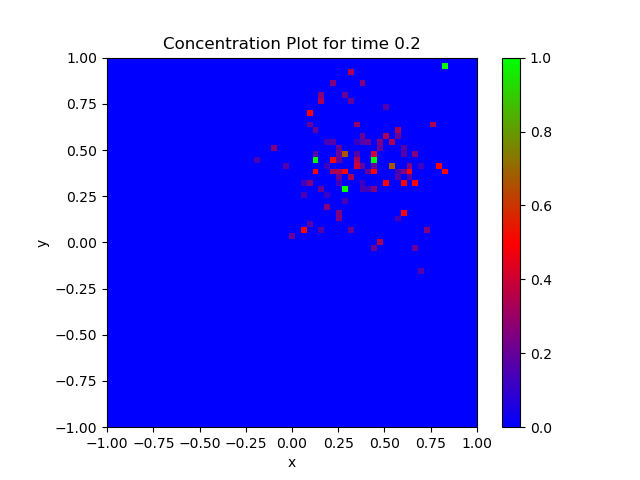
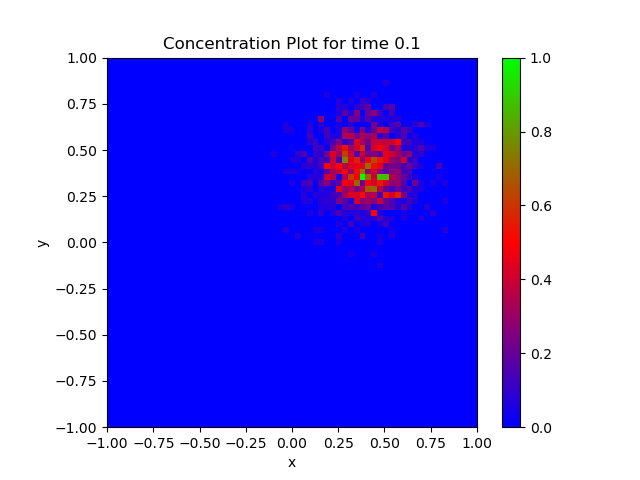
Add Task E

diff --git a/task_b.py b/task_b.py
@@ -129,7 +129,7 @@ class TaskB(InitialState,SimulationMath,Concentration):
 
         return rmse_average_list
 
-    def plot_rmse_analysis(self,axes,xlim,title,xlabel,ylabel,observed_data,fitted_data,
+    def plot_rmse_analysis(self,axes,xlim,title,xlabel,ylabel,observed_data,fitted_data,label,
                             ylim=None,diff_nparticles=False,diff_timestep=False):
 
         axes.set_xscale('log')
@@ -137,11 +137,14 @@ class TaskB(InitialState,SimulationMath,Concentration):
         axes.set_xlabel(xlabel)
         axes.set_ylabel(ylabel)
         axes.set_title(title)
-        axes.scatter(*zip(*observed_data))
-        axes.plot(*zip(*fitted_data), color='red',linestyle='dashed')
+        observed_data_plot = axes.scatter(*zip(*observed_data))
+        fitted_data_plot, = axes.plot(*zip(*fitted_data), color='red',linestyle='dashed')
+        fitted_data_plot.set_label(label)
+        axes.legend()
 
         if diff_nparticles:
             axes.set_yscale('log')
+            axes.legend
         if diff_timestep:
             axes.set_ylim(ylim)
 
@@ -221,21 +224,13 @@ class TaskB(InitialState,SimulationMath,Concentration):
 
             title = 'RMSE against Number of particles for h={num}'.format(num=self.h)
 
-            rmse_nparticles_analysis = self.rmse_analysis(rmse_num_particles,diff_particles=True)
+            coefficient, rmse_nparticles_analysis = self.rmse_analysis(rmse_num_particles,diff_particles=True)
 
-            self.plot_rmse_analysis(axes=rmse_axes[0],xlim=[self.lower_Np - 100,self.higher_Np + 100], xlabel='Number of particles', ylabel='RMSE',title=title,
+            fitted_eqn_particles = '{a}*Np^({b})'.format(a=round(coefficient[0],3), b=round(-coefficient[1],3))
+
+            self.plot_rmse_analysis(axes=rmse_axes[0],xlim=[self.lower_Np - 100,self.higher_Np + 100], xlabel='Number of particles', ylabel='RMSE',title=title,label=fitted_eqn_particles,
                                     observed_data=rmse_num_particles, fitted_data=rmse_nparticles_analysis, diff_nparticles=True)
 
-            # rmse_axes[0].set_xscale('log')
-            # rmse_axes[0].set_yscale('log')
-            # rmse_axes[0].set_xlim([self.lower_Np - 100, self.higher_Np + 100])
-            # # rmse_axes[0].set_ylim([0.01, 0.1])
-            # rmse_axes[0].set_xlabel('Number of particles')
-            # rmse_axes[1].set_ylabel('RMSE')
-            # title = 'RMSE against Number of particles for h={num}'.format(num=self.h)
-            # rmse_axes[0].set_title('RMSE vs n_particles')
-            # rmse_axes[0].scatter(*zip(*rmse_num_particles))
-            # rmse_axes[0].plot(*zip(*rmse_nparticles_analysis), color='red', linestyle='dashed')
             
             for time_step in self.time_step_list:
 
@@ -257,16 +252,12 @@ class TaskB(InitialState,SimulationMath,Concentration):
 
             title = 'RMSE against Time Step for N particles ={num}'.format(num=self.Np)
 
-            rmse_time_step_analysis = self.rmse_analysis(rmse_time_step,diff_time_step=True)
+            coefficient, rmse_time_step_analysis = self.rmse_analysis(rmse_time_step,diff_time_step=True)
 
-            self.plot_rmse_analysis(axes=rmse_axes[1],xlim=[1e-4,1],ylim=[2e-3, 0.5],title=title,xlabel='Time Step (s)',ylabel='RMSE',
+            fitted_time_equation = '{a} * ln(h) + {b}'.format(a=round(coefficient[0],3), b=round(coefficient[1],3))
+
+            self.plot_rmse_analysis(axes=rmse_axes[1],xlim=[1e-4,1],ylim=[2e-3, 0.5],title=title,xlabel='Time Step (s)',ylabel='RMSE',label=fitted_time_equation,
                                     observed_data=rmse_time_step, fitted_data=rmse_time_step_analysis, diff_timestep=True)
-            # rmse_axes[1].set_xscale('log')
-            # rmse_axes[1].set_xlim([1e-4, 1])
-            # rmse_axes[1].set_ylim([2e-3, 0.5])
-            # rmse_axes[1].set_title('RMSE vs time_step')
-            # rmse_axes[1].scatter(*zip(*rmse_time_step))
-            # rmse_axes[1].plot(*zip(*test), color='red', linestyle='dashed')
 
             plt.show()
 
@@ -286,4 +277,4 @@ class TaskB(InitialState,SimulationMath,Concentration):
             popt, pcov = curve_fit(lambda fx,a,b: a * np.log(fx) + b,  x,  y)
             power_y = popt[0] * np.log(x) + popt[1]
 
-        return list(zip(x,power_y))
+        return popt, list(zip(x,power_y))

diff --git a/task_e.py b/task_e.py
@@ -6,10 +6,87 @@ import time
 from scipy.spatial import cKDTree
 from sklearn.metrics import mean_squared_error
 
+from task_a import TaskA
+
 from simulation_math import SimulationMath
 from initial_state import InitialState
 from concentration import Concentration
 
 from sklearn import linear_model
+
+class TaskE(TaskA):
+
+    def __init__(self):
+        super().__init__()
+
+    def main(self):
+
+        start = time.process_time()
+
+        self.substance["sub_1"], self.substance["sub_2"] = self.taskA_initial_state()
+
+        print("[INFO] Running the simulation...")
+        self.run_simulation()
+
+        # print("[INFO] Plotting the solution for time : {solution}".format(solution=self.tEnd))
+        self.plot_solution()
+
+        concentration_grid = self.calculate_concentration(self.substance["sub_1"])
+
+        self.concentration_plot(concentration_grid)
+        plt.savefig('diagram/concentration_plot.png')
+
+        if self.debug:
+            print("[DEBUG] The number of particles involved: ", (len(self.substance["sub_1"]) + len(self.substance["sub_2"])))
+
+        print("[INFO] Simulation status : Success")
+        print("[INFO] The time taken to complete the simulation is {time}".format(time=round((time.process_time() - start), 2)))
+
+        plt.show()
+
+    def calculate_concentration(self, sub_1):
+        
+        print("[INFO] Calculating concentration... This may take awhile...")
+        print("[INFO] Set self.debug = True if you wish to see which grid the programme is currenly calculating")
+        
+        # Populate a "grid" with zeros
+        grid_list = []
+        
+        self.sub_1 = sub_1
+
+        zero_div_err = 0
+
+        grid_position = lambda x, y, i, j: x > self.x_grid[i] and x < self.x_grid[i+1] and y < self.y_grid[j] and y > self.y_grid[j+1]
+        
+        for i in range(self.Nx - 1):
+            grid_list.append([0 for j in range(self.Ny - 1)])
+
+        for i in range(len(self.x_grid)- 1):
+            for j in range(len(self.y_grid) - 1):
+
+                for particle in sub_1:
+                    # Check corner
+                    if grid_position(particle[0], particle[1], i, j):
+                        grid_list[j][i] += 1
+
+                try:
+                    # TODO : Add maths equation here
+                    pass
+
+                except ZeroDivisionError:
+                    zero_div_err += 1
+                    #print("[WARN] ZeroDivisionError : Not enough particles to calculate")
+
+                except IndexError:
+                    print("[WARN] IndexError: Out of boundaries at column {col}, row {row}".format(col=i, row=j))
+
+                if self.debug:  
+                    print("[DEBUG] Grid {num}".format(num=(i,j)))
+
+        if self.debug:  
+            print("[DEBUG] Number of empty pixels : {num}".format(num=zero_div_err))    
+                    
+        return np.array(grid_list)
+
 
 

diff --git a/globals.py b/globals.py
@@ -15,7 +15,7 @@ class Globals:
         Please use capital letters!
         OPTION : A, B, D, E
         """
-        self.task_type = {'A':0, 'B':1, 'D':2}
+        self.task_type = {'A':0, 'B':1, 'D':2, 'E': 3}
         self.task = 'B'
         
         ####################
@@ -43,12 +43,12 @@ class Globals:
         Set any number of particles you want
         NOTE : Generally, it will take 10 minutes for 150000 particles
         """
-        self.Np = 15000
+        self.Np = 150000
 
         ###############
         # Diffusivity #
         ###############
-        self.D = 0.1
+        self.D = 0.01
         
         ############
         # Velocity #
@@ -66,7 +66,7 @@ class Globals:
         self.h = Time step
         self.tEnd = Time End
         """
-        self.h = 0.001
+        self.h = 0.01
         self.tEnd = 0.2
         
         #########
@@ -90,7 +90,7 @@ class Globals:
         True : Gives 1D plot of concentration vs x coordinate
         False : Does not plot 1D plot
         """
-        self.plot_1D = False
+        self.plot_1D = True
 
         """
         True : Plots the RMSE vs parameter (number of particles and different time step)
@@ -100,7 +100,7 @@ class Globals:
 
         self.lower_Np = 1000
         self.higher_Np = 160000
-        
+
         self.lower_h = 0.001
         self.higher_h = 0.1
         
@@ -110,6 +110,6 @@ class Globals:
         """"
         If you wish to see any extra information in the terminal, set self.debug to True.
         """
-        self.debug = False
+        self.debug = True
 
         

diff --git a/main.py b/main.py
@@ -11,6 +11,7 @@ if __name__ == '__main__':
     task_A = TaskA()
     task_B = TaskB()
     task_D = TaskD()
+    # task_E = TaskE()
 
     if globals.task_type[globals.task] == 0:
         task_A.main()
@@ -21,3 +22,5 @@ if __name__ == '__main__':
     if globals.task_type[globals.task] == 2:
         task_D.main_task_D()
         
+    # if globals.task_type[globals.task] == 3:
+    #     task_E.main()

diff --git a/simulation_math.py b/simulation_math.py
@@ -41,6 +41,6 @@ class SimulationMath(Globals):
         
         # This causes the grid to be moved to 
         random = self.generate_random_number(array_size)
-
+        print(time_step)
         return coordinate + velocity * time_step + np.sqrt(2 * self.D) * np.sqrt(time_step) * random
 
